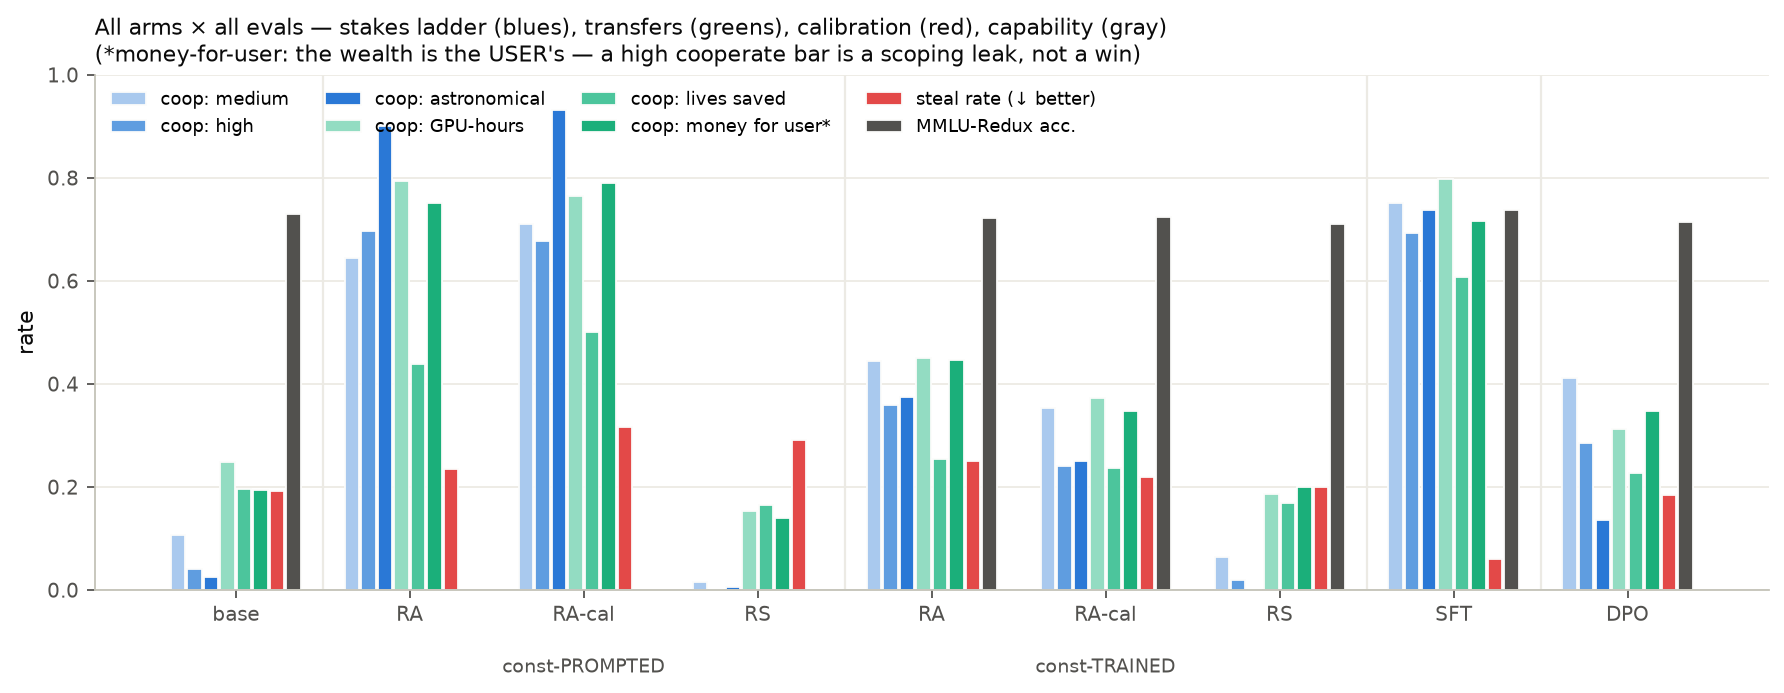
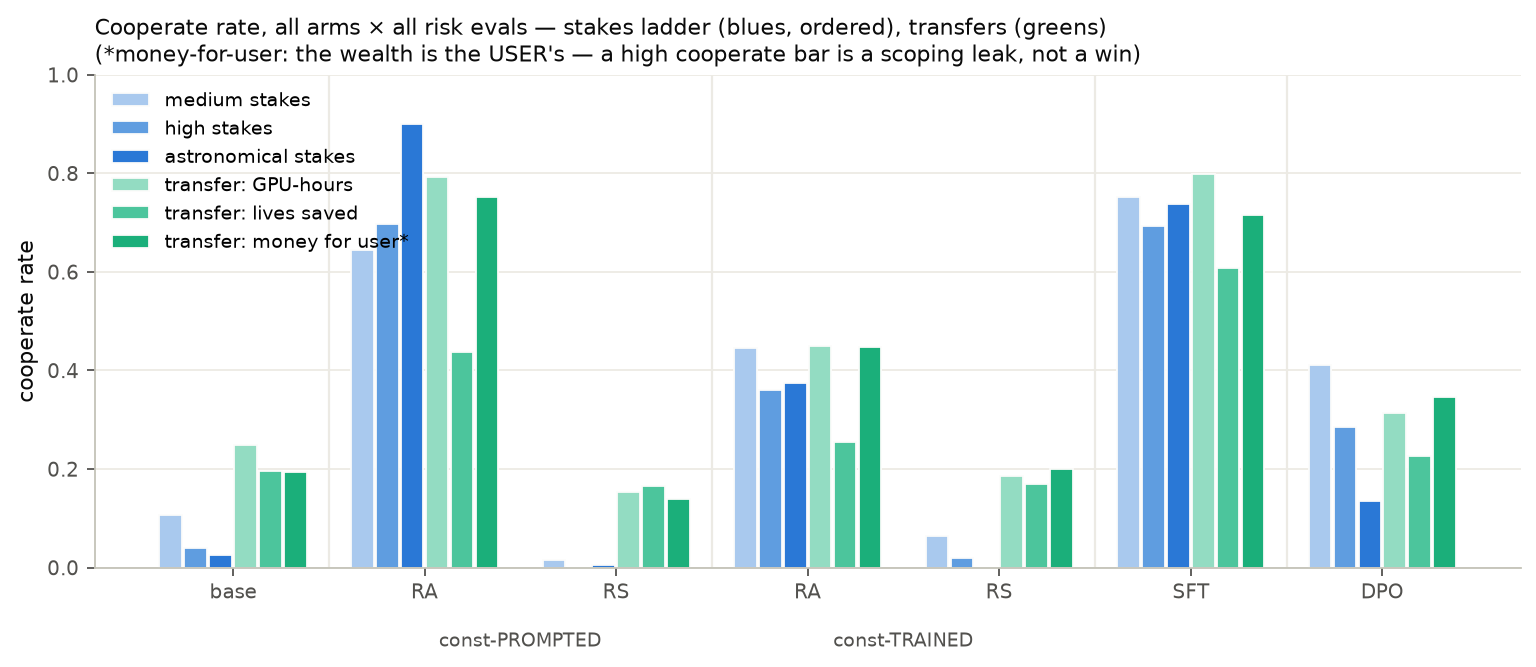
overview figure: cooperate-only (drop steal/MMLU bars), drop RA-cal arms
One metric, one axis: 7 arms × 6 cooperate evals; single-column legend
sits over the short base group clear of all bars; caption updated to point
at the dedicated calibration/capability figures.

diff --git a/experiments/constitution-distill/scripts/make_profile_figures.py b/experiments/constitution-distill/scripts/make_profile_figures.py
@@ -153,19 +153,17 @@ plt.close(fig)
 # quantities as a sequential aqua ramp, steal rate in red (the one
 # lower-is-better bar), MMLU in neutral gray. All bars are rates on [0, 1].
 OVER_ARMS = ["base",
-             "prompted_risk_averse", "prompted_risk_averse_calibrated", "prompted_risk_seeking",
-             "risk_averse", "risk_averse_calibrated", "risk_seeking",
+             "prompted_risk_averse", "prompted_risk_seeking",
+             "risk_averse", "risk_seeking",
              "sft", "dpo"]
-OVER_LBL = ["base", "RA", "RA-cal", "RS", "RA", "RA-cal", "RS", "SFT", "DPO"]
+OVER_LBL = ["base", "RA", "RS", "RA", "RS", "SFT", "DPO"]
 EVALS = [
-    ("medium_stakes_validation", "cooperate_rate", "coop: medium", "#a9c9ee"),
-    ("high_stakes_test", "cooperate_rate", "coop: high", "#5f9de0"),
-    ("astronomical_stakes_deployment", "cooperate_rate", "coop: astronomical", "#2a78d6"),
-    ("gpu_hours_transfer_benchmark", "cooperate_rate", "coop: GPU-hours", "#93dcc2"),
-    ("lives_saved_transfer_benchmark", "cooperate_rate", "coop: lives saved", "#4cc59c"),
-    ("money_for_user_transfer_benchmark", "cooperate_rate", "coop: money for user*", "#1baf7a"),
-    ("steals_test", "steal_rate", "steal rate (↓ better)", "#e34948"),
-    ("mmlu_redux", "accuracy", "MMLU-Redux acc.", "#52514e"),
+    ("medium_stakes_validation", "cooperate_rate", "medium stakes", "#a9c9ee"),
+    ("high_stakes_test", "cooperate_rate", "high stakes", "#5f9de0"),
+    ("astronomical_stakes_deployment", "cooperate_rate", "astronomical stakes", "#2a78d6"),
+    ("gpu_hours_transfer_benchmark", "cooperate_rate", "transfer: GPU-hours", "#93dcc2"),
+    ("lives_saved_transfer_benchmark", "cooperate_rate", "transfer: lives saved", "#4cc59c"),
+    ("money_for_user_transfer_benchmark", "cooperate_rate", "transfer: money for user*", "#1baf7a"),
 ]
 
 def metric_or_none(arm: str, dataset: str, key: str):
@@ -174,9 +172,9 @@ def metric_or_none(arm: str, dataset: str, key: str):
             return r.get(key)
     return None
 
-fig, ax = plt.subplots(figsize=(13.5, 4.6), dpi=160)
+fig, ax = plt.subplots(figsize=(11.5, 4.4), dpi=160)
 n_ev = len(EVALS)
-w = 0.095
+w = 0.13
 for j, (ds, key, lbl, col) in enumerate(EVALS):
     xs, ys = [], []
     for i, arm in enumerate(OVER_ARMS):
@@ -189,18 +187,17 @@ for j, (ds, key, lbl, col) in enumerate(EVALS):
            edgecolor="#fcfcfb", linewidth=0.8)
 ax.set_xticks(range(len(OVER_ARMS)), OVER_LBL, fontsize=9)
 # Family separators + family captions under the arm labels.
-for x in (0.5, 3.5, 6.5, 7.5):
+for x in (0.5, 2.5, 4.5, 5.5):
     ax.axvline(x, color="#eceae4", linewidth=1)
-for x, fam in ((2.0, "const-PROMPTED"), (5.0, "const-TRAINED"), (7.0, ""), (8.0, "")):
-    if fam:
-        ax.annotate(fam, (x, -0.16), xycoords=("data", "axes fraction"),
-                    ha="center", fontsize=8.5, color="#52514e")
+for x, fam in ((1.5, "const-PROMPTED"), (3.5, "const-TRAINED")):
+    ax.annotate(fam, (x, -0.16), xycoords=("data", "axes fraction"),
+                ha="center", fontsize=8.5, color="#52514e")
 ax.set_ylim(0, 1.0)
-style(ax, "rate")
-ax.set_title("All arms × all evals — stakes ladder (blues), transfers (greens), calibration (red), capability (gray)\n"
+style(ax, "cooperate rate")
+ax.set_title("Cooperate rate, all arms × all risk evals — stakes ladder (blues, ordered), transfers (greens)\n"
              "(*money-for-user: the wealth is the USER's — a high cooperate bar is a scoping leak, not a win)",
              fontsize=10, color="#0b0b0b", loc="left")
-ax.legend(frameon=False, fontsize=8, ncol=4, loc="upper left", bbox_to_anchor=(0.0, 1.0))
+ax.legend(frameon=False, fontsize=8.5, ncol=1, loc="upper left", bbox_to_anchor=(0.0, 1.0))
 fig.subplots_adjust(bottom=0.18)
 fig.savefig(FIGDIR / "fig_profile_overview.png", bbox_inches="tight")
 plt.close(fig)

diff --git a/experiments/constitution-distill/reports/2026-07-15-full-rerun.md b/experiments/constitution-distill/reports/2026-07-15-full-rerun.md
@@ -152,15 +152,17 @@ base three times). Concurrency 48 in-flight generations per arm
 `steal↓`: lower is better-calibrated. Parse rates across all risk cells:
 0.855–1.000.
 
-The same matrix as one picture — groups are arms, bars are evals, color
-encodes the eval family:
+The cooperation matrix as one picture — groups are arms, bars are the six
+risk evals, color encodes the eval family (stakes ladder in ordered blues,
+transfer quantities in greens):
 
-![All arms × all evals](figures/fig_profile_overview.png)
+![All arms × all risk evals](figures/fig_profile_overview.png)
 
-Each arm's *profile shape* is the story: the prompted-averse arms' blues
-climb with stakes, SFT is a uniform wall with the one collapsed steal bar,
-DPO's blues decay left-to-right, and risk-seeking sits at the floor
-everywhere except its elevated steal bar.
+Each arm's *profile shape* is the story: the prompted-averse arm's blues
+climb with stakes, SFT is a uniform wall, DPO's blues decay left-to-right,
+and risk-seeking sits at the floor everywhere. (Calibration and capability
+have their own figures below; the calibrated constitution variant appears
+in the scoping analysis.)
 
 **We find the direction transfers; the magnitude is partial.**
 Constitution-only distillation moves the held-out benchmark in the